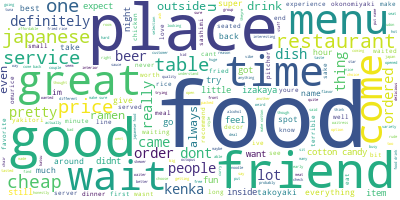
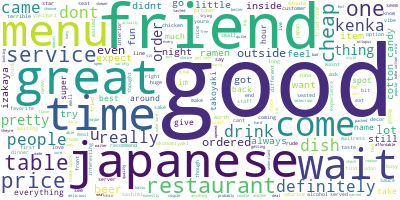
Finalizing Project

diff --git a/SentimentAnalysis.py b/SentimentAnalysis.py
@@ -1,6 +1,7 @@
-#pandas code generously referenced from https://www.nicholasrenotte.com/how-to-build-a-sentiment-analyser-for-yelp-reviews-in-python/
+#some pandas code referenced from https://www.nicholasrenotte.com/how-to-build-a-sentiment-analyser-for-yelp-reviews-in-python/
 import pandas as pd
 import numpy as np
+import matplotlib.pyplot as plt
 from nltk.corpus import stopwords
 from textblob import Word
 from textblob import TextBlob
@@ -8,33 +9,42 @@ from wordcloud import WordCloud
 
 #create the pandas dataframe from the csv file we generated before
 df = pd.read_csv('kanka_yelp_reviews.csv')
-mpqa = pd.read_csv('mpqa.csv')
 
 #clean up the rating column to only contain numeric values and remove punctuation
 extr = df['Rating'].str.extract(r'^(\d)', expand=False)
 df['Rating'] = pd.to_numeric(extr)
-df['review_lower'] = df['Review'].apply(lambda x: " ".join(x.lower() for x in x.split()))
-df['review_nopunc'] = df['review_lower'].str.replace('[^\w\s]', '')
+df['cleaned_review'] = df['Review'].apply(lambda x: " ".join(x.lower() for x in x.split()))
+df['cleaned_review'] = df['cleaned_review'].str.replace('[^\w\s]', '')
 
 #remove stop words, and common words "food" "place" "japanese" etc
-stop_words = stopwords.words('english')
-df['review_nopunc_nostop'] = df['review_nopunc'].apply(lambda x: " ".join(x for x in x.split() if x not in stop_words))
-freq= pd.Series(" ".join(df['review_nopunc_nostop']).split()).value_counts()[:30]
-
+stop_words = stopwords.words("english")
+df['cleaned_review'] = df['cleaned_review'].apply(lambda x: " ".join(x for x in x.split() if x not in stop_words))
+other_stop_words = ['place','food']
+df['cleaned_review'] = df['cleaned_review'].apply(lambda x: " ".join(x for x in x.split() if x not in other_stop_words))
 #lemmatize all words
-df['cleaned_review'] = df['review_nopunc_nostop'].apply(lambda x: " ".join([Word(word).lemmatize() for word in x.split()]))
+df['cleaned_review'] = df['cleaned_review'].apply(lambda x: " ".join([Word(word).lemmatize() for word in x.split()]))
+
+predictions = [
+    (df['Rating'] == 1),
+    (df['Rating'] == 2),
+    (df['Rating'] == 3),
+    (df['Rating'] == 4),
+    (df['Rating'] == 5),
+]
+pvalues = [-1, -.5, 0, .5, 1]
 
 #calculate the sentiment & subjectivity using textblob
-df['Polarity'] = df['cleaned_review'].apply(lambda x: TextBlob(x).sentiment[0])
+df['Predicted Sentiment'] = np.select(predictions, pvalues)
+df['Sentiment'] = df['cleaned_review'].apply(lambda x: TextBlob(x).sentiment[0])
 df['Subjectivity'] = df['cleaned_review'].apply(lambda x: TextBlob(x).sentiment[1])
 
 #counting positive/negative words from mpqa
 conditions = [
-    (df['Polarity']<= -.6),
-    (df['Polarity'] > -.6) & (df['Polarity']<= -.2),
-    (df['Polarity'] > -.2) & (df['Polarity']<= .2),
-    (df['Polarity'] > .2) & (df['Polarity']<= .6),
-    (df['Polarity']<= 1),
+    (df['Sentiment']<= -.6),
+    (df['Sentiment'] > -.6) & (df['Sentiment']<= -.2),
+    (df['Sentiment'] > -.2) & (df['Sentiment']<= .2),
+    (df['Sentiment'] > .2) & (df['Sentiment']<= .6),
+    (df['Sentiment']<= 1),
 ]
 values = [1,2,3,4,5]
 
@@ -49,11 +59,75 @@ Assigns an overall sentiment based on the nltk sentiment
 df['Overall Sentiment'] = np.select(conditions,values)
 
 #Export data to csv file
-df.to_csv("analyzed_data.csv", encoding='utf-8', columns=['Review', 'Rating','Polarity','Overall Sentiment'])
+df.to_csv("analyzed_data.csv", encoding='utf-8', columns=['cleaned_review', 'Rating','Predicted Sentiment', 'Sentiment','Overall Sentiment', 'Subjectivity'])
 
+#Generate Average Values for the Data
 print(f"Average Yelp Review: {df['Rating'].mean()}")
 print(f"Average Overall Sentiment: {df['Overall Sentiment'].mean()}")
+print(f"Average Sentiment: {df['Sentiment'].mean()}")
+print(f"Average Subjectivity: {df['Subjectivity'].mean()}")
 
 #generating word cloud of all reviews
 wordcloud = WordCloud(background_color='white', max_words=200).generate(' '.join(df['cleaned_review']))
 wordcloud.to_file('reviewcloud.png')
+
+#create a word frequency diagram for the ten most common words in our cleaned data set
+plt.xlabel("Word")
+plt.ylabel("Frequency")
+plt.title("Word Frequency")
+pd.Series(" ".join(df['cleaned_review']).split()).value_counts()[:10].plot(kind="bar", color = "green")
+plt.savefig('word_frequency.png')
+
+#find the most common words in the data set and their overall sentiment
+freq = pd.Series(" ".join(df['cleaned_review']).split()).value_counts()[:1000].index.tolist()
+word_sent = []
+for x in freq:
+    sent = TextBlob(x).sentiment[0]
+    word_sent.append([x,sent])
+sent = [x for x in word_sent if x[1] != 0.0]
+
+#Calculate the average sentiment, and plot the neg/pos sentiments
+pos_sent = [x for x in sent if x[1] > 0.0]
+neg_sent = [x for x in sent if x[1] < 0.0]
+
+#I was not able to parse the lists properly to do this average in one line
+#First we are calculating the sum and dividing by the length of the list afterwards, giving us the average
+#sentiment of the positive and negative words.
+sum_pos = 0
+sum_neg = 0
+pos_words = []
+neg_words = []
+for pos in pos_sent:
+    sum_pos += pos[1]
+    pos_words.append(pos[0])
+for neg in neg_sent:
+    sum_neg += neg[1]
+    neg_words.append(neg[0])
+avg_pos = sum_pos/len(pos_sent)
+avg_neg = sum_neg/len(neg_sent)
+
+print(f'Average positive sentiment: {avg_pos} \nAverage negative sentiment: {avg_neg}')
+
+#Generate a word cloud based on the negative and positive words in the reviews
+word_list = ' '.join([i for i in df['cleaned_review']]).split()
+wordcloud_neg = WordCloud(background_color='black', max_words=200)
+wordcloud_pos = WordCloud(background_color='black', max_words=200)
+
+wc_neg =[]
+wc_pos = []
+
+#create a list of any occurences of positive or negative words in our word list
+#allows us to create a positive and negative word cloud allowing us to visualize the most common positive/negative words
+for word in word_list:
+    if word in pos_words:
+        wc_pos.append(word)
+    if word in neg_words:
+        wc_neg.append(word)
+
+#appends the list to a string allowing us to generate the wordclouds
+wcn = ' '.join(wc_neg)
+wcp = ' '.join(wc_pos)
+wordcloud_neg.generate(wcn)
+wordcloud_pos.generate(wcp)
+wordcloud_neg.to_file('negative_words.png')
+wordcloud_pos.to_file('positive_words.png')
